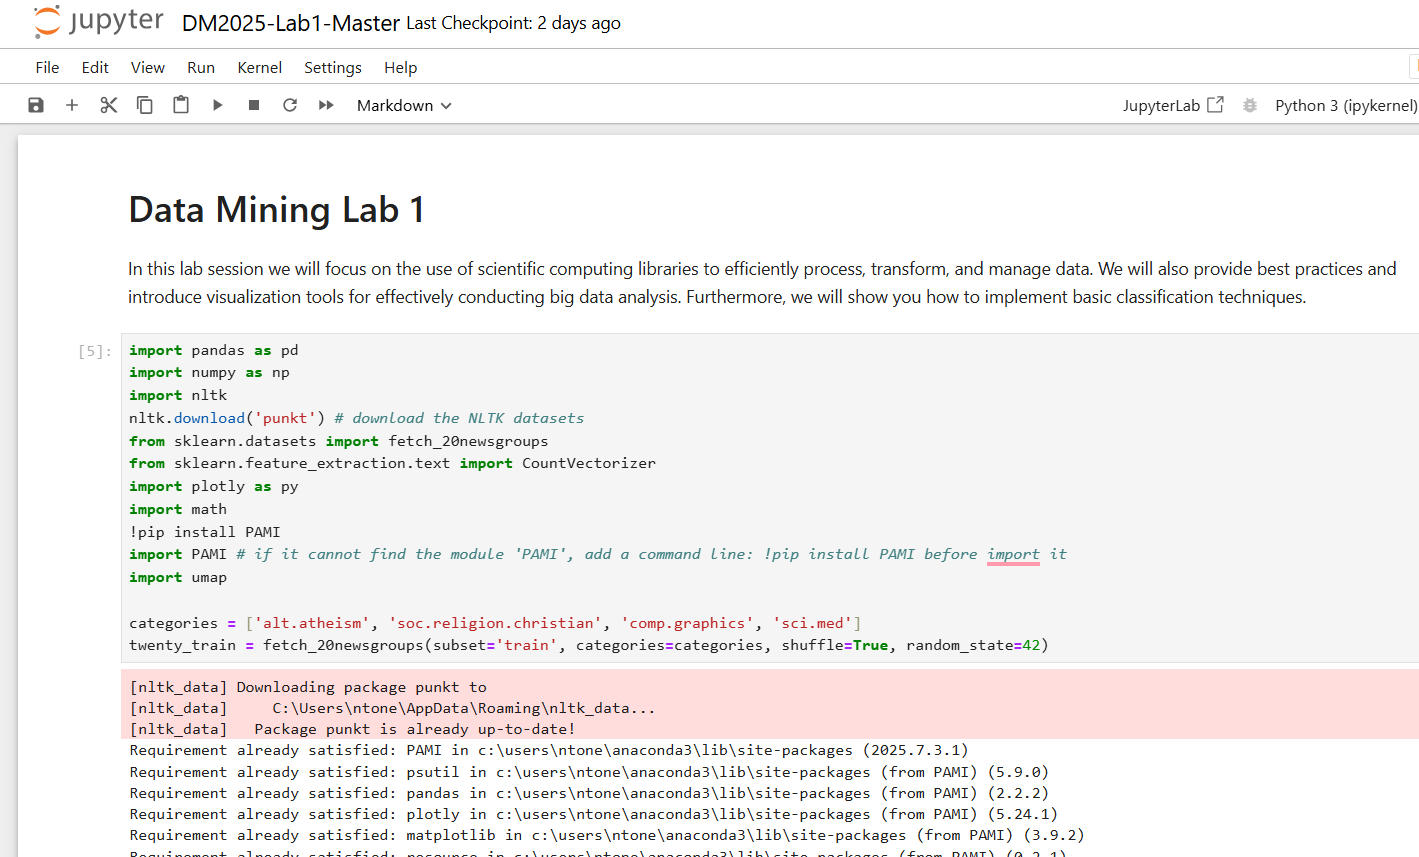
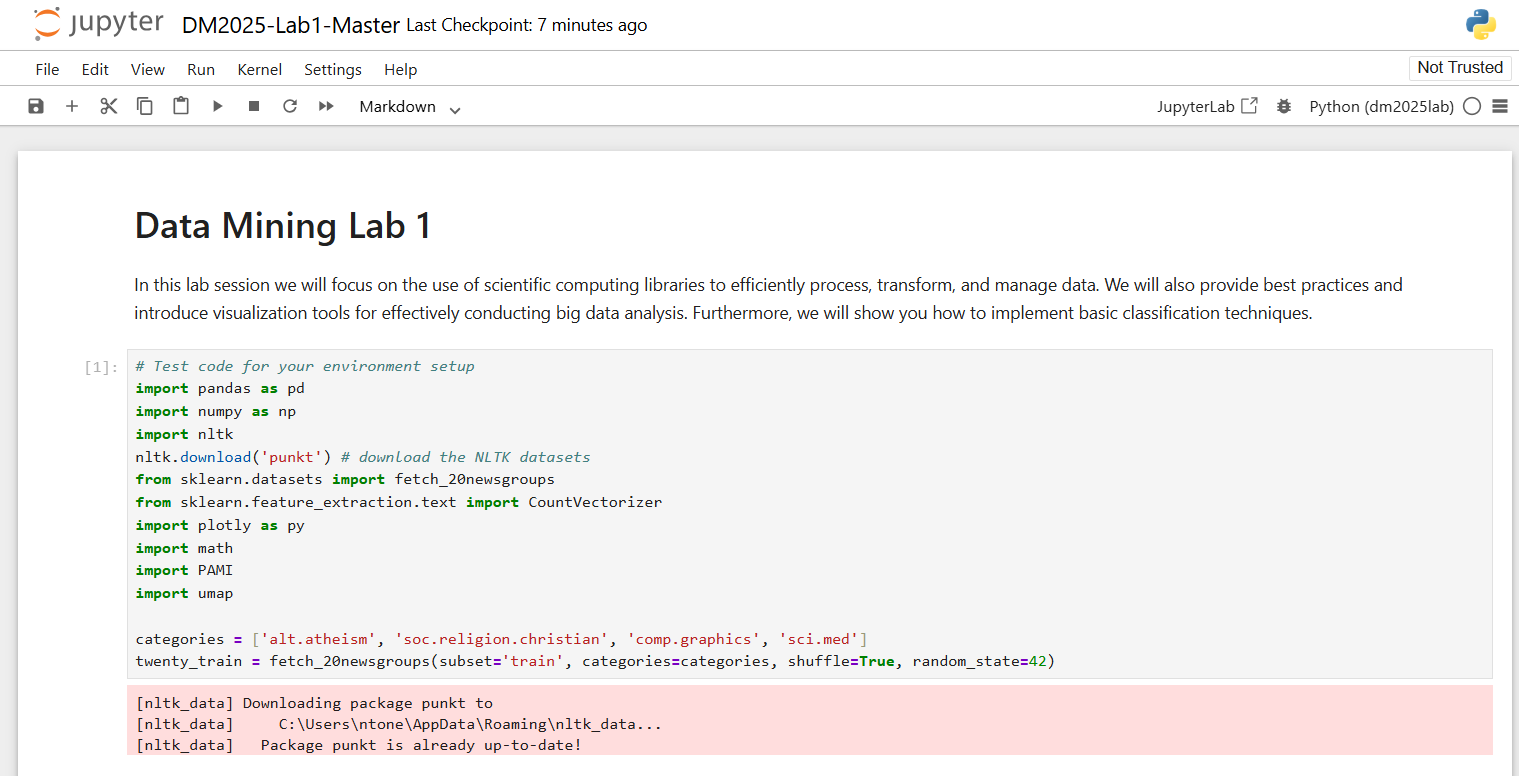
pic update due to change of python version

Changed region(s): [[0.0, 0.0, 1.0, 1.0], [0.6202, 0.6186, 0.7442, 0.6804], [0.4651, 0.6186, 0.4961, 0.6495]]

diff --git a/README.md b/README.md
@@ -16,7 +16,7 @@ This document provides detailed instructions for setting up the environment requ
 
 Please make sure you have the following installed:
 
-* Python 3.9.9
+* Python 3.11.0 (recommended)
 * uv (Python virtual environment manager)
 * Git
 * GitHub account
@@ -26,10 +26,10 @@ Please make sure you have the following installed:
 
 ## Setup Instructions
 
-### 1. Install Python 3.9.9
+### 1. Install Python 3.11.0 (If you use your own version, you take risk)
 
-Download and install Python 3.9.9:
-https://www.python.org/downloads/release/python-399/
+Download and install Python 3.11.0 (recommended):
+https://www.python.org/downloads/release/python-3110/
 
 During installation, check "**Add Python to PATH**".
 
@@ -39,7 +39,7 @@ Verify installation:
 python --version
 ```
 Expected output:
-Python 3.9.9  
+Python 3.11.0  
 
 ### 2. Create a GitHub Account and Install Git
 #### Sign up for GitHub: https://github.com/  
@@ -94,11 +94,6 @@ Below is an example, where I store my Lab in the "new" folder.
 
 ![gitpic4](img/gitpic4.png)
 
-
-
-
-
-
 ### 5. Install uv
 In terminal or PowerShell:
 
@@ -114,13 +109,15 @@ uv venv
 
 This creates a .venv folder inside the project.
 
-### 7. Add the Dependent Libraries
+### 7. Install the Dependent Libraries
 
+Navigate to directory:  `DM2025-Lab1-Exercise`  
+#### Quick install
 ```bash
 uv sync
 ```
 This installs all required Python packages: jupyter numpy pandas matplotlib plotly nltk scikit-learn seaborn pami umap-learn   
-### 8. (Optional) Manually install Libraries
+#### (Alternative) Manually install Libraries
 You may need to add libraries manually if the **step 8** cannot install the required libraries successfully:  
 ```bash
 uv add jupyter numpy pandas matplotlib plotly nltk scikit-learn seaborn pami umap-learn
@@ -129,18 +126,36 @@ You can also install extra libraries if needed.
 ```bash
 uv add <library_name>
 ```
-### 8. (Alternative) If you are using Kaggle or Colab (if not, you can skip)   
+#### (Alternative) If you are using Kaggle or Colab (if not, you can skip)   
 Install the library with these commands 
 ![pip3 install](img/pipinstall.jpg)
 
+### 8. Register Jupyter Kernel
+Navigate to directory:  `DM2025-Lab1-Exercise`  
+```bash
+uv run python -m ipykernel install --user --name=dm2025lab --display-name "Python (dm2025lab)"
+```
+### 9. Run Notebook  
+#### Run in VS Code
+If using VS Code:
+
+Open your terminal/PowerShell  
+```bash
+cd <your path to the DM2025-Lab1-Exercise>
+code
+```
+Open the `DM2025-Lab1-Master.ipynb`  
+
+Then select "Python (dm2025lab)" as the kernel in the top-right corner.  
+![vs code select jupyter kernel](img/vs_code.png)  
 
 
-### 9. Run Jupyter Notebook
+#### (Alternative) Run Jupyter Notebook in Browser  
 Start Jupyter:
 
 ```bash
 cd <your path to the DM2025-Lab1-Exercise>
-jupyter notebook
+uv run jupyter notebook
 ```
 ![jupyter notebook](img/pic3ann1.png)
 
@@ -148,37 +163,14 @@ If error occurs:
 
 ```bash
 python -m notebook
-```
-A browser window will open. Click "New" → "Python 3" to create a notebook.  
+```  
+A browser window will open.  
+Open the `DM2025-Lab1-Master.ipynb` 
+
+Select **Python (dm2025lab)** as the notebook kernel on the top-right corner.  
 ![open Jupyter](img/pic4ann1.png)
 
-### 10. Test Your Environment
-Open the `DM2025-Lab1-Master.ipynb`
-![test code](img/pic5ann1.png)
-Paste the script below into a notebook cell and run it:
-
-```Python
-import pandas as pd
-import numpy as np
-import nltk
-nltk.download('punkt') # download the NLTK datasets
-from sklearn.datasets import fetch_20newsgroups
-from sklearn.feature_extraction.text import CountVectorizer
-import plotly as py
-import math
-# !pip install PAMI
-import PAMI # if it cannot find the module 'PAMI', add a command line: !pip install PAMI before import it
-import umap
-
-categories = ['alt.atheism', 'soc.religion.christian', 'comp.graphics', 'sci.med']
-twenty_train = fetch_20newsgroups(subset='train', categories=categories, shuffle=True, random_state=42)
-```
-
-![test pic](img/testpic1.png)
-
-If no errors occur, your environment is ready.
-
-### Alternative: Run in Kaggle
+#### (Alternative) Run in Kaggle
 If you cannot set up Python locally:  
 Create an account: https://www.kaggle.com/  
 Go to: https://www.kaggle.com/kernels → "New Notebook"  
@@ -190,16 +182,34 @@ For missing libraries (e.g., PAMI), install manually:
 ```
 ![kaggle](img/pic8ann1.png)
 
-### Alternative: Run in VS Code
-If using VS Code, register your kernel:
 
-```bash
-cd <your path to the DM2025-Lab1-Exercise>
-code .
-uv run python -m ipykernel install --user --name=dm2025lab --display-name "Python (dm2025lab)"
+### 10. Test Your Environment
+Open the `DM2025-Lab1-Master.ipynb`
+
+Paste the script below into a notebook cell and run it:
+
+```Python
+# test code for environment setup
+import pandas as pd
+import numpy as np
+import nltk
+nltk.download('punkt') # download the NLTK datasets
+from sklearn.datasets import fetch_20newsgroups
+from sklearn.feature_extraction.text import CountVectorizer
+import plotly as py
+import math
+# !pip install PAMI
+import PAMI # if it cannot find the module 'PAMI', add a command line: !pip install PAMI before importing it
+import umap
+
+categories = ['alt.atheism', 'soc.religion.christian', 'comp.graphics', 'sci.med']
+twenty_train = fetch_20newsgroups(subset='train', categories=categories, shuffle=True, random_state=42)
 ```
-Then select "Python (dm2025lab)" as the kernel.
-![vs code jupyter kernel](img/pic11ann1.png)
+
+![test pic](img/testpic1.png)
+
+If no errors occur, your environment is ready.
+
 
 
 ### Troubleshooting
